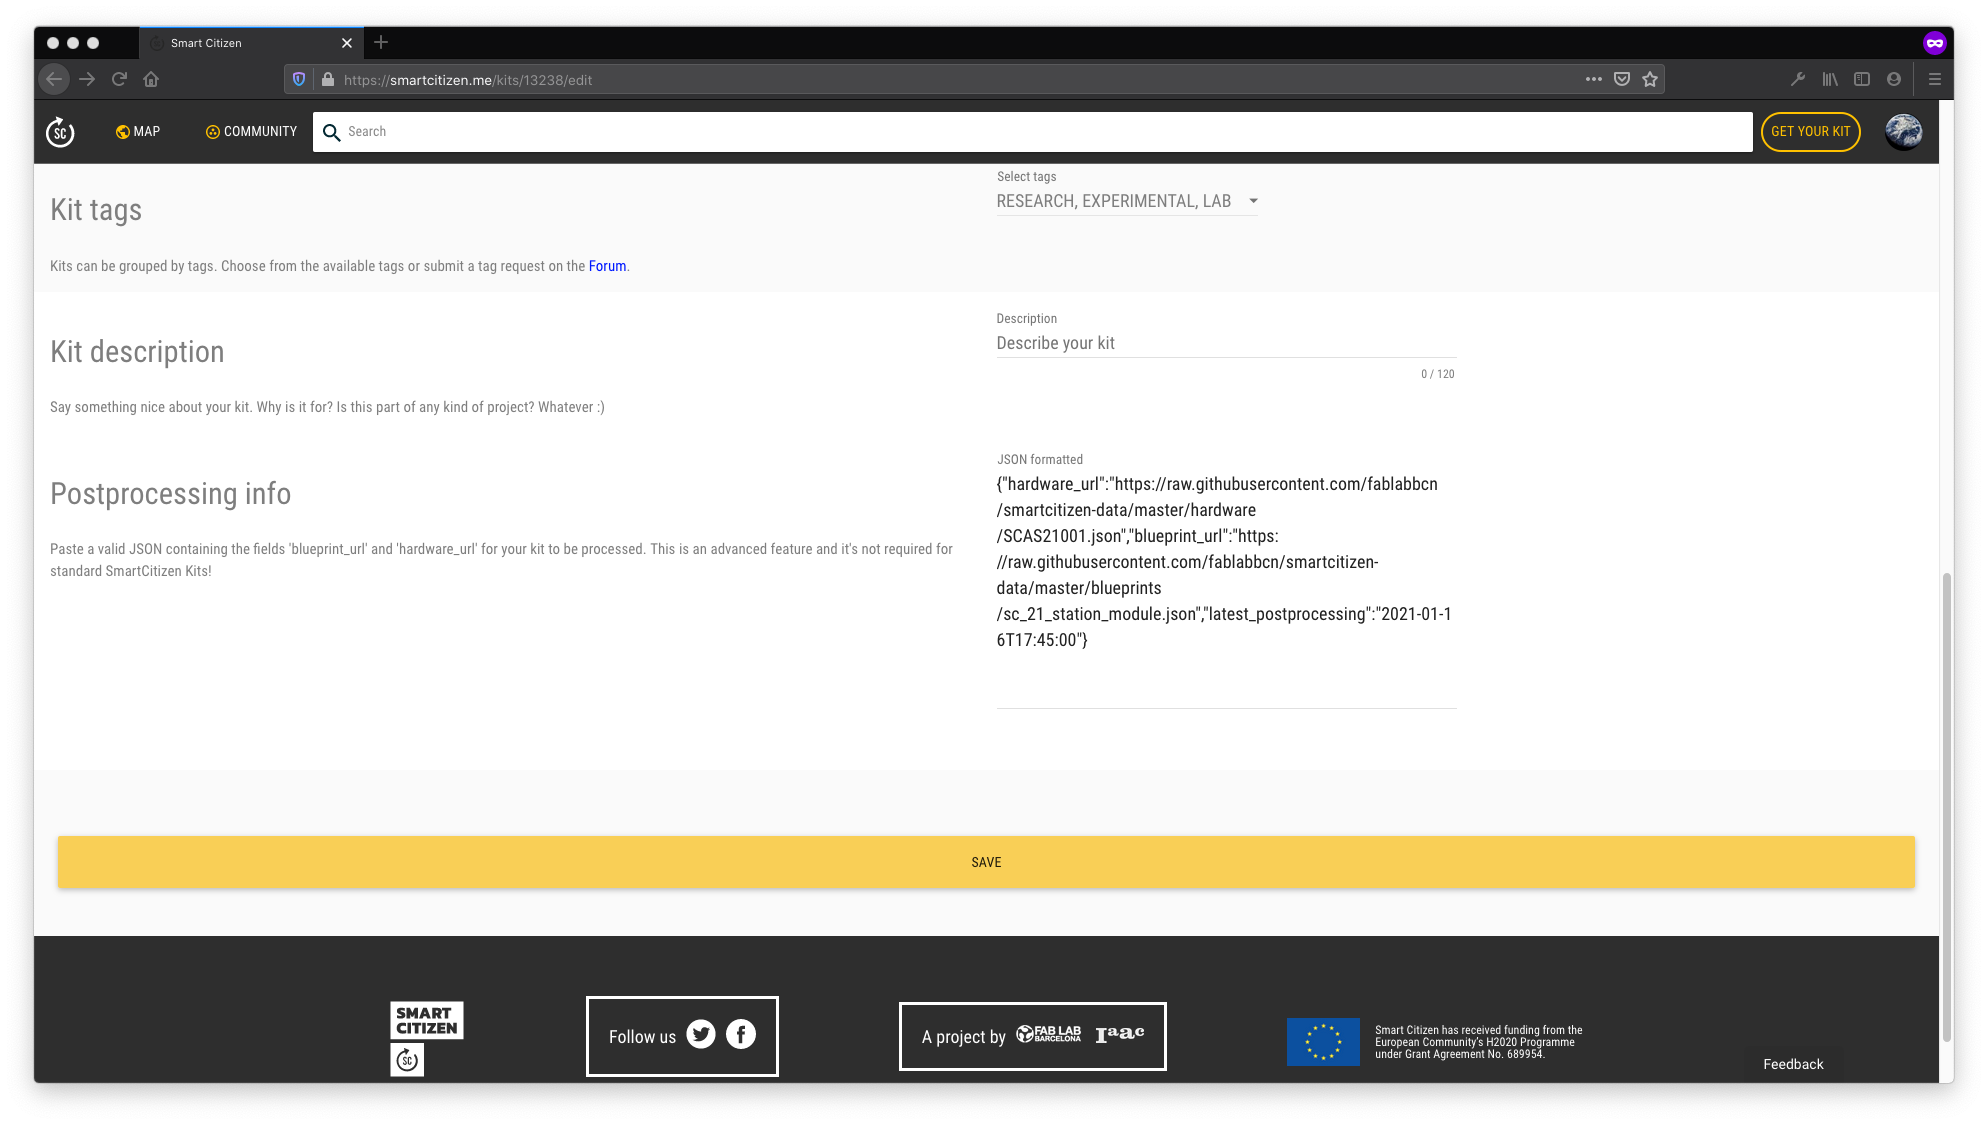
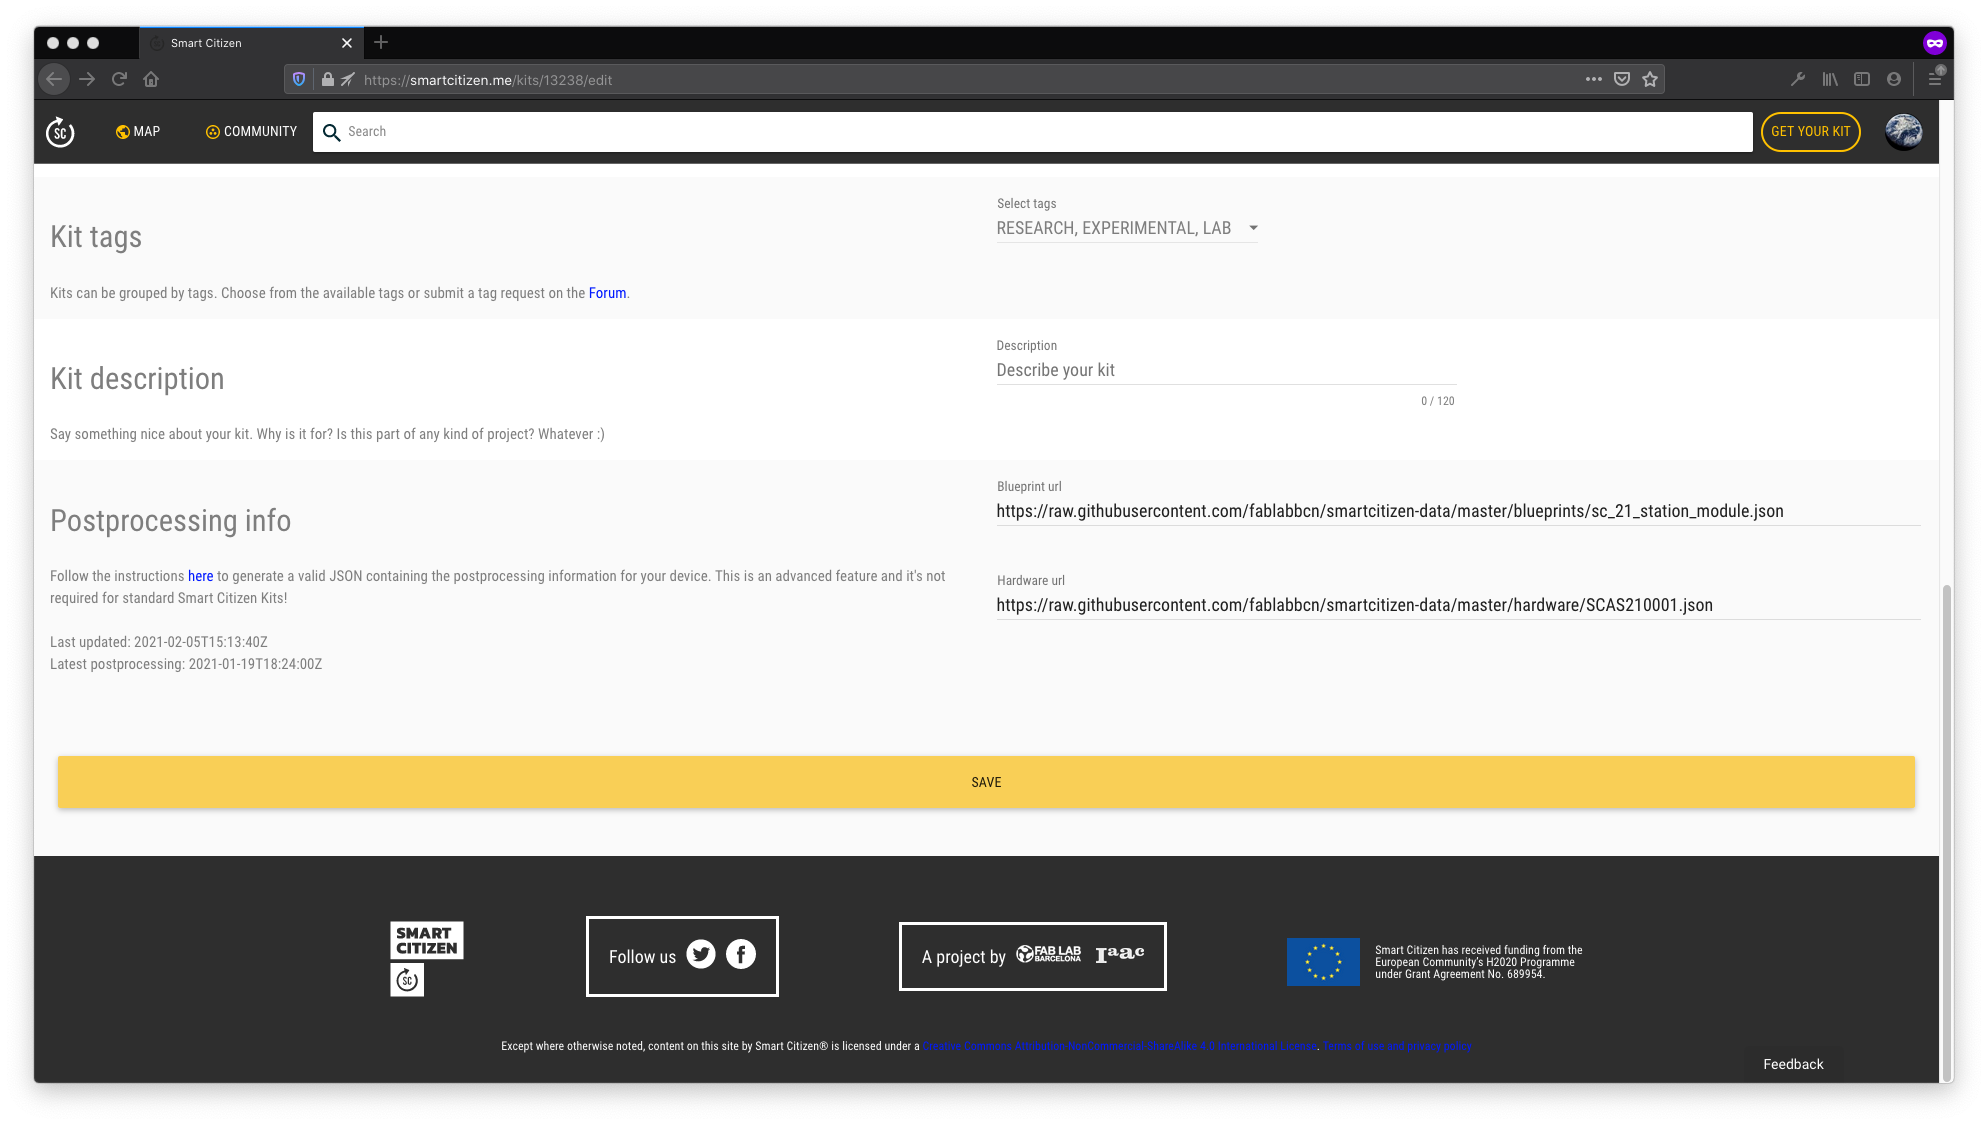
Update postprocessing guides

diff --git a/docs/Guides/data/Handling calibration data.md b/docs/Guides/data/Handling calibration data.md
@@ -1,6 +1,6 @@
 # Handling calibration data
 
-The calibration data for is managed by an unique hardware ID, and should be visible in the device itself (on a sticker, normally on the form of `SCXSXX000X`). This ID serves to identify the hardware calibration data, alongside with the processing description we want for that device. All this information can be saved in the platform's device using the `postprocessing_info` field of the device.
+The calibration data for is managed by an unique hardware ID, and should be visible in the device itself (on a sticker, normally on the form of `SCXSXX000X`). This ID serves to identify the hardware calibration data, alongside with the processing description we want for that device. All this information can be saved in the platform's device using the `postprocessing` field of the device.
 
 ## How to store data
 
@@ -8,21 +8,10 @@ The easiest way is to go to the kit-edit view of your kit: https://smartcitizen.
 
 ![](/assets/images/postprocessing_edit.png)
 
-In there, paste a [Valid JSON](https://duckduckgo.com/?t=ffab&q=json+validator&ia=answer) containing the following fields:
+In there, you can update the fields for `blueprint` and `hardware`:
 
-```
-{
-    "updated_at":"2021-01-16T17:45:00",
-    "hardware_url":"https://raw.githubusercontent.com/fablabbcn/smartcitizen-data/master/hardware/SCAS21001.json",
-    "blueprint_url":"https://raw.githubusercontent.com/fablabbcn/smartcitizen-data/master/blueprints/sc_21_station_module.json",
-    "latest_postprocessing":"null"
-}
-```
-
-- `updated_at`: currently, this has to be done manually including the date at which the JSON is being updated. This will be no longer needed in the shorter future, but as it is a beta feature needs a bit of improvement
-- `hardware_url`: this field defines an url for hardware calibration IDs to be loaded from. It virtually can load a valid json from any url, as long as it follows the instructions defined [here](https://github.com/fablabbcn/smartcitizen-data/blob/master/hardware/README.md). The default hardware definitions are in the [scdata github repository](https://github.com/fablabbcn/smartcitizen-data/tree/master/hardware) and can be identified per ID. You can just take the corresponding ID and click in the `raw` button to get the url needed. This field should look something like: `https://raw.githubusercontent.com/fablabbcn/smartcitizen-data/master/hardware/SCAS21001.json`
-- `blueprint_url`: this field defines the post-processing to be done in the form of a `device-blueprint`. It virtually can load a valid json from any url, as long as it follows the instructions defined [here](https://github.com/fablabbcn/smartcitizen-data/blob/master/examples/notebooks/01_getting_started.ipynb) and [here](https://github.com/fablabbcn/smartcitizen-data/blob/master/examples/notebooks/04_processing_data.ipynb). If you want to use the base processing select it from the [blueprints folder](https://github.com/fablabbcn/smartcitizen-data/tree/master/blueprints), only selecting the `raw` json as mentioned above. If you have doubts, please, [contact us](mailto:support@smartcitizen.me) to make sure. Finally, other blueprints can be added as defined [in this guide](/Guides/data/Custom%20data%20processing/) 
-- `latest_postprocessing`: this field is to be left as "null"
+- `hardware_url`: this field defines an url for hardware calibration IDs to be loaded from. It virtually can load a **valid json** from any url, as long as it follows the instructions defined [here](https://github.com/fablabbcn/smartcitizen-data/blob/master/hardware/README.md). The default hardware definitions are in the [scdata github repository](https://github.com/fablabbcn/smartcitizen-data/tree/master/hardware) and can be identified per ID. You can just take the corresponding ID and click in the `raw` button to get the url needed. This field should look something like: `https://raw.githubusercontent.com/fablabbcn/smartcitizen-data/master/hardware/SCAS21001.json`
+- `blueprint_url`: this field defines the post-processing to be done in the form of a `device-blueprint`. It virtually can load a valid json from any url, as long as it follows the instructions defined [here](https://github.com/fablabbcn/smartcitizen-data/blob/master/examples/notebooks/01_getting_started.ipynb) and [here](https://github.com/fablabbcn/smartcitizen-data/blob/master/examples/notebooks/04_processing_data.ipynb). If you want to use the base processing select it from the [blueprints folder](https://github.com/fablabbcn/smartcitizen-data/tree/master/blueprints), only selecting the `raw` json as mentioned above. If you have doubts, please, [contact us](mailto:support@smartcitizen.me) to make sure. Finally, other blueprints can be added as defined [in this guide](/Guides/data/Custom%20data%20processing/)
 
 ### Alternative method
 
@@ -32,15 +21,15 @@ Alternatively, in order to post this data, you can follow to other methods:
 - or, if you are familiar with `http requests` you can `post` this data as such:
 
 ```
-curl 'https://api.smartcitizen.me/v0/devices/<DEVICE-ID>' -X PATCH -H 'Authorization: Bearer <BEARER-FROM-YOUR-USER-PROFILE>' -H 'Content-Type: application/json;charset=UTF-8' --data-binary '{"postprocessing_info": {"updated_at": "<DATE IN UTC - FORMAT YYYY-mm-DDTHH:MM:SS>", "blueprint_url": "https://raw.githubusercontent.com/fablabbcn/smartcitizen-data/master/blueprints/sc_21_station_module.json", "hardware_url": "https://raw.githubusercontent.com/fablabbcn/smartcitizen-data/master/hardware/<HARDWARE_ID>.json", "latest_postprocessing": "null"}}' --compressed
+curl 'https://api.smartcitizen.me/v0/devices/<DEVICE-ID>' -X PATCH -H 'Authorization: Bearer <BEARER-FROM-YOUR-USER-PROFILE>' -H 'Content-Type: application/json;charset=UTF-8' --data-binary '{"postprocessing_attributes": {"blueprint_url": "https://raw.githubusercontent.com/fablabbcn/smartcitizen-data/master/blueprints/<BLUEPRINT_ID>.json", "hardware_url": "https://raw.githubusercontent.com/fablabbcn/smartcitizen-data/master/hardware/<HARDWARE_ID>.json"}}' --compressed
 ```
 
 You can get your authorization token on your user profile page in the OAuth section. Make sure to change the following fields in the command above:
 
 - `<DEVICE-ID>`
 - `<BEARER-FROM-YOUR-USER-PROFILE>`
-- `<DATE IN UTC - FORMAT YYYY-mm-DDTHH:MM:SS>`, for instance `2021-01-14T13:09:23Z`
 - `<HARDWARE_ID>`, for instance `SCAS210002`
+- `<BLUEPRINT_ID>`, for instance `sc_21_station_module` for Smart Citizen Stations
 
 !!! info "Check it out"
-    Once this process is done, you should be able to check that the `postprocessing_info` is safely stored in the Platform by visiting: `https://api.smartcitizen.me/v0/devices/<DEVICE-ID>/`. After this, we will take care of processing the data in a periodic way.
+    Once this process is done, you should be able to check that the `postprocessing` is safely stored in the Platform by visiting: `https://api.smartcitizen.me/v0/devices/<DEVICE-ID>/`. After this, we will take care of processing the data in a periodic way.

diff --git a/docs/Guides/data/Custom data processing.md b/docs/Guides/data/Custom data processing.md
@@ -11,9 +11,9 @@ Data is processed outside of the sensors in a periodic way by [`scdata`](https:/
 
 ## Automatic data processing
 
-Data is processed in a recurrent manner whenever there is `postprocessing_info` in the device. You can check it by visiting `https://api.smartcitizen.me/v0/devices/<device-id>` where `<device-id>` is the number that follows in the url `https://smartcitizen.me/kits/XXXXXX`.
+Data is processed in a recurrent manner whenever there is `postprocessing` in the device. You can check it by visiting `https://api.smartcitizen.me/v0/devices/<device-id>` where `<device-id>` is the number that follows in the url `https://smartcitizen.me/kits/XXXXXX`.
 
 !!! info "How to do it?"
-    Visit [these instructions](/Guides/data/Handling calibration data/) to make sure your `postprocessing_info` is safely stored.
+    Visit [these instructions](/Guides/data/Handling calibration data/) to make sure your `postprocessing` is safely stored.
 
-The `postprocessing_info` is comprised of several fields as defined in the guide above. In order to have custom postprocessing workflows, you need to modify the `blueprint_url` and _maybe_, the hardware url. The `blueprint_url` should point to a valid `json` file following the structure shown in the [examples folder in the `scdata` repository](https://github.com/fablabbcn/smartcitizen-data/tree/master/examples/notebooks). Inside this blueprint, `metrics` can be added to be generated according to the `device`'s available sensors.
+The `postprocessing` is comprised of several fields as defined in the guide above. In order to have custom postprocessing workflows, you need to modify the `blueprint_url` and _maybe_, the hardware url. The `blueprint_url` should point to a valid `json` file following the structure shown in the [examples folder in the `scdata` repository](https://github.com/fablabbcn/smartcitizen-data/tree/master/examples/notebooks). Inside this blueprint, `metrics` can be added to be generated according to the `device`'s available sensors.
